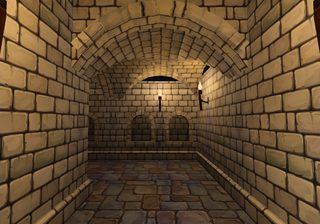
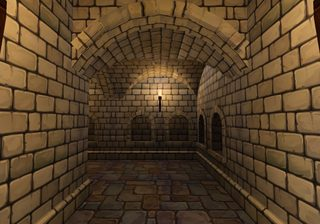
Godkjenningssiden: steinen i «Se i 3D», modulbildene på nytt og paletten for alle temaene
viewer.js bytter lagene per instans som spillet (steinbyttet), så
kloakken, gruva, borgen og kjernen vises i sin egen stein. Plastsømmene
lyser dempet fiolett (magic_seam_dim). Modulbildene er tatt på nytt for
alle temaene med det nye lyset, paletten i redigeringen har et bilde per
modul i alle temaene, og docs/nivaaredigering.md del 25 beskriver lyset og
mekanismebitene.

Claude-Session: https://claude.ai/code/session_01HjRNadLHQ1vF9573PymvAE

diff --git a/tools/qa/viewer.js b/tools/qa/viewer.js
@@ -185,8 +185,46 @@ export async function show(it, data, ui) {
     const names = Object.keys(lv.models);
     const scenes = await Promise.all(names.map(n => load(st, lv.models[n], layers, sides)));
     const byName = Object.fromEntries(names.map((n, i) => [n, scenes[i]]));
+    // Steinbyttet (`crypt::stone`): lagene biten er laget med (gulv, mur,
+    // hogd stein) byttes mot lagene instansen får (gulv, mur, hvelv, hogd
+    // stein); muren som vender ned i modellen blir hvelv, som i spillet.
+    const swapped = new Map();
+    const stoned = (src, inst) => {
+      const s = inst.stone;
+      if (!s) return src;
+      const key = inst.model + "|" + s.from.join(",") + "|" + s.to.join(",");
+      if (!swapped.has(key)) {
+        const o = src.clone(true);
+        o.traverse(m => {
+          if (!m.isMesh) return;
+          const mats = [].concat(m.material).map(x => {
+            const role = (x.userData && x.userData.fristad) || {};
+            let to = null;
+            if (role.layer === s.from[0]) to = s.to[0];
+            else if (role.layer === s.from[1]) to = s.to[1];
+            else if (role.layer === s.from[2]) to = s.to[3];
+            if (!to) return x;
+            if (to === s.to[1] && s.to[2] !== s.to[1] && m.geometry.attributes.normal) {
+              const n = m.geometry.attributes.normal;
+              let down = 0;
+              for (let k = 0; k < n.count; k++) if (n.getY(k) < -0.3) down++;
+              if (down > n.count / 2) to = s.to[2];
+            }
+            const t = layerTexture(st, layers, to);
+            if (!t) return x;
+            const c = x.clone();
+            c.map = t;
+            c.needsUpdate = true;
+            return c;
+          });
+          m.material = mats.length === 1 ? mats[0] : mats;
+        });
+        swapped.set(key, o);
+      }
+      return swapped.get(key);
+    };
     for (const inst of lv.instances) {
-      const src = byName[inst.model];
+      const src = byName[inst.model] && stoned(byName[inst.model], inst);
       if (!src) continue;
       const o = src.clone(true);
       o.position.set(inst.pos[0], inst.pos[1], inst.pos[2]);

diff --git a/tools/crypt/kit_mech.py b/tools/crypt/kit_mech.py
@@ -12,7 +12,7 @@ fra temaet og bakes og sjekkes på samme måte.
 | `grav_luke`, `grav_luke_topp` | celle under og over | flatt tak med bjelker og luke nede, gulv med luke oppe (`ladder`, `trapdoor`) |
 | `grav_kanal`, `grav_kanal_ende` | celle | gangen med en kanal midt i og gangbane på hver side (`water`) |
 | `grav_galleri` | sammensatt 3 × 3 | sal på 10 × 10 m med galleri 5 m oppe langs nordmuren, trapp langs vestmuren og rekkverk |
-| `grav_vegg_som` | halvkant | muren med fiolette sømmer (`magic_seam`), variant `som` av `grav/vegg` |
+| `grav_vegg_som` | halvkant | muren med fiolette sømmer (`magic_seam_dim`), variant `som` av `grav/vegg` |
 """
 
 import math
@@ -238,8 +238,8 @@ def kanal_walk(end=False):
 # --- Plastsømmene ------------------------------------------------------------------
 
 
-def seam(m, surf, u, v0, v1, seed, w=0.11):
-    """En søm som lyser fiolett (`magic_seam`) i fugene, i sikksakk opp
+def seam(m, surf, u, v0, v1, seed, w=0.06):
+    """En søm som lyser fiolett (`magic_seam_dim`, dempet så den ikke blir hvit på nært hold) i fugene, i sikksakk opp
     langs muren, litt ut fra flaten."""
     import random
 
@@ -253,7 +253,7 @@ def seam(m, surf, u, v0, v1, seed, w=0.11):
         L = math.hypot(ub - ua, vb - va)
         nu, nv = -(vb - va) / L * w / 2, (ub - ua) / L * w / 2
         quad = [(ua - nu, va - nv), (ub - nu, vb - nv), (ub + nu, vb + nv), (ua + nu, va + nv)]
-        m.poly([surf.point(a, b, 0.012) for a, b in quad], [(a, b) for a, b in quad], "magic_seam", facing=surf.normal(u))
+        m.poly([surf.point(a, b, 0.012) for a, b in quad], [(a, b) for a, b in quad], "magic_seam_dim", facing=surf.normal(u))
 
 
 def vegg_som(far=False):

diff --git a/tools/qa/review.py b/tools/qa/review.py
@@ -249,7 +249,7 @@ def modules_3d(root, items, levels, used):
         if not keep:
             continue
         cells = [c for c in gal["flat"]["cells"] if any(c["id"].startswith(m["id"] + "/") for m in keep)]
-        reach = 6.0 if any("rotunde" in c["bit"] or c["bit"].endswith("/hall") for c in cells) else 2.0
+        reach = 6.0 if any("rotunde" in c["bit"] or c["bit"].endswith(("/hall", "/galleri")) for c in cells) else 2.0
         xs = [c["at"][0] * 4.0 for c in cells]
         zs = [c["at"][2] * 4.0 for c in cells]
         lo, hi = (min(xs) - reach - 0.01, min(zs) - reach - 0.01), (max(xs) + reach + 0.01, max(zs) + reach + 0.01)
@@ -270,6 +270,11 @@ def modules_3d(root, items, levels, used):
                 glb_to_json(hits[0], os.path.join(root, "kit", f"{model}.json"))
                 urls[model] = f"glb/kit/{model}.json"
                 used |= glb_layers(hits[0])
+        # Steinbyttet per instans (`crypt::stone`): lagene temaet gir, så
+        # «Se i 3D» viser kloakken i tegl og borgen i kvader (viewer.js).
+        for i in inst:
+            if i.get("stone"):
+                used |= set(i["stone"]["to"])
         levels[f"modul_{name}"] = {"models": {m: u for m, u in urls.items() if any(i["model"] == m for i in inst)}, "instances": [i for i in inst if i["model"] in urls]}
         it["level"] = f"modul_{name}"
 

diff --git a/tools/crypt/kit_grav.py b/tools/crypt/kit_grav.py
@@ -165,6 +165,7 @@ MATS = {
     "magic_down": None,
     "magic_bonus": None,
     "magic_seam": None,  # sømmene som lyser fiolett i muren (nivå 9–10)
+    "magic_seam_dim": None,  # plastsømmene i kjernens mur (`kit_mech.vegg_som`), svakere
     "water": None,
 }
 # Fargene til de spesielle materialene (lineær RGB).
@@ -178,6 +179,7 @@ SPECIAL = {
     "magic_down": ((0.25, 0.45, 1.0), 0.3),
     "magic_bonus": ((1.0, 0.72, 0.25), 0.3),
     "magic_seam": ((0.7, 0.35, 1.0), 0.2),
+    "magic_seam_dim": ((0.22, 0.07, 0.38), 0.2),
     "water": ((0.02, 0.04, 0.05), 0.05),
 }
 

diff --git a/CLAUDE.md b/CLAUDE.md
@@ -54,7 +54,7 @@ Fristad er et spill i en nordisk kjøpstad rundt 1350. Under borgruinen ligger k
 - **Lyd og musikk** (`web/music.js`, `web/score.js`, `web/ambience.js`, `web/sounds.js`; eieren 16. oktober: «mye bedre og mer middelalderaktig»): musikken spilles med ekte instrumentprøver fra FluidR3_GM (`assets/music/<instrument>/<tone>.mp3`, hentet av `tools/music/fetch.sh`, MIT/CC BY 3.0 i `assets/music/CREDITS.md`): blokkfløyte, skalmeie, fele, lutt, harpe, psalter, munkekor, positiv, bordun (cello, kontrabass, sekkepipe), kirkeklokke, pauke og tromme. `score.js` (`createScore`, `load`, `cue`, `stop`) er prøvespilleren og partituret (notene som «D5/2», klang «D4+A4/4», kirketonearter, bordun, organum, hoketus), med filmens cuer (dawn, scriptorium, fall, burial, crypt, town, gate) og spillets: i byen fem stykker etter tur, et nytt hvert 90. sekund, og kjellerens mørke cue (`music.js`, samme grensesnitt som før: `set("town"|"cellar"|"silence")`, M av og på). **Sporene fra Suno** (eieren 18. oktober) ligger i `assets/music/game/` og spilles som filer i løkke foran partituret (`TRACKS`, `trackFor` i `music.js`): `town` om dagen og `town_night` om natta (hver står i for den andre om den mangler; `town` om natta dempes med lavpass), `crypt` i alle nivåene, `combat` når en fiende som har sett deg er innen `FIGHT_NEAR` (12 m) eller slår (`Event::Hud.fight` fra `Mobs::fight`: 1 fiende, 2 boss, 3 Rammeverket; `combat_boss` for bossene, ellers `combat`), tonet inn over `COMBAT_FADE` (1,5 s) og ut over `COMBAT_OUT` (1,2 s) `FIGHT_HOLD` (2 s) etter kampen (eieren: raskere ut); kampsporet starter et tilfeldig sted ved en frasegrense (`phraseStarts`: der lydstyrken stiger brått, regnet ut med `OfflineAudioContext` når sporet lastes; ellers annenhver takt), aldri samme sted to ganger på rad og ikke de siste `COMBAT_TAIL` (20 s), går i løkke, og fortsetter der det var om en ny kamp kommer innen `COMBAT_RESUME` (20 s). Trubaduren synger kvadet om Gorvek (`tavern.mp3`) bare for et krus mjød (eieren 18. oktober): E på ham åpner en liten Fristil-dialog med replikken og «Kjøp et krus mjød (1 token)» (`Event::Mead`, `MeadView`, `openMead`; av med «Har ikke råd» uten token, og av mens han synger, så ingen betaler to ganger), `Command::BuyMead` trekker tokenet med myntlyd, og `Event::Song(true)` spiller fila én gang fra start (`music.song`); når den er ferdig, sier nettlaget fra (`Command::SongOver`, reserven `SONG_SECS`), og han sitter stille (`sit`) og vil ha et krus til (`application/tavern.rs`, replikkene `cast::MEAD_*`, `trubaduren_synger_for_et_krus_mjod`). Sangen høres i alle etasjene (`Ambience.tavern`: 1 i skjenkestua, `TAVERN_UPPER`/`TAVERN_CELLAR` oppe og i kjelleren, under 0,5 og dempet ut til 22 m; `vertshuset_hores_i_alle_etasjene`), og byens spor tones ned inne i hele huset. Mangler et spor, spiller partituret; `tools/build-web.sh` skriver `music/game/tracks.json` med sporene som finnes, så `music.js` aldri ber om et som mangler.
 - **Lydeffektene** er ekte opptak fra frie spill (0 A.D., Flare, Minetest Game og Still North Medias middelaldervåpen; CC BY-SA 3.0, CC BY 3.0 og CC0), laget av `tools/sounds/build.py` (kloner lydmappene, mono mp3, kutter stillhet, normaliserer, krysstoner løkkene) til `assets/sounds/` med `sounds.json` (navn → filer, nivå, variasjon i tonehøyde, `rate`, og `synth` når den syntetiske lyden skal spilles i tillegg) og `CREDITS.md` (lenket fra startkortet). Økta sender `Event::Sound(Sound { name, at, gain })`, der `at` er stedet sett fra øyet (`Session::sound_at`; `sfx` er lyder i hodet). `web/sounds.js` velger en variant (aldri samme to ganger), varierer tonehøyde og styrke, sender lyder med sted gjennom en HRTF-panner, og legger etterklang etter rommet (lang i kjelleren, kort innendørs, nesten ingen ute; `Ambience.indoor` måles med stråler). Den syntetiske lyden er reserve til opptaket er lastet. Lydene: skritt etter underlaget (`Session::surface`: brostein og stein, grus og søle, jord, gress, tre på gulv og bro, snø, vann i kloakken; søle i regnvær, rustningen rasler i takt), hopp og landing, hugg, tungt hugg som lades (og klinger når ladningen er full; `Combat.cues`), treff etter materiale (tabellen er tre, Rammeverket jern), balansen som brister (`Strike.staggered`), blokk med tre- eller jernskjold, parade, stønn, død, hjerteslag ved lavt liv og pust når utholdenheten er tom, fiendene med sted (varsel før slaget, at de får øye på deg, tassing, spytt, slag i bakken, brøl med noe som knekker, og bossens tunge, knirkende skritt; `Outcome.sounds`), byfolkenes skritt, portgitteret, nøkkelen, låst port, slåen på snarveien, dørene, kista, tau og planker som knirker på brua over kløfta, fjerne lyder i kjelleren (rotter, dører, kjetting, noe som knurrer i et rom ved siden av; `Session.distant_t`), kirkeklokka når du bytter mellom dag og natt, virvelen og portalen som åpner seg (`warp`, `portal_open`, og løkka `loop_portal` nær den åpne portalen), mynter, avslag, smiing, boka, sekken, pause og klikk i dialogene. Løkkene (`Ambience`: regn, storm, vind, torget, fugler, ugle, smia, ild ved ildsteder og fakler, drypp og grottevind i kjelleren, vann i kloakken, lava, vinden fra kløfta) og byens lag i `web/ambience.js` (stemmer, kjerrer, kirkeklokka, sirisser; sauer og kuer fra opptak). Testene `lydene_finnes` (alle navn spillet bruker er i manifestet, med filer og kreditering) og `skrittene_folger_underlaget`.
 - **Åpningsfilmen** (manuset `docs/film/manus.md`, historien er kanon i `docs/kanon.md`; eieren 16. oktober: «en selvstendig introfilm … IKKE forsøk på å male over selve spillet»; 17. oktober: en ferdig klippet video i stedet for den malte three.js-filmen): rundt tre minutter, uten spillets grafikk. **Klippebordet** er `tools/film/timeline.py` (data) og `tools/film/cut.py` (ffmpeg): `SHOTS` er klippene i rekkefølge, hvert med tid, kilde (Veo-klippet `assets/film/veo/<navn>.mp4`, trimmet og saktet om det er for kort, ellers maleriet i `assets/film/shots/` eller `assets/film/intro/` med en langsom glidning), overgang inn, fargegradering (`GRADES`), rommene og lydene fra `assets/sounds/`, replikkene (`voice`: indeks i `assets/film/voice/lines.json`, stemmen er `fortelleren.mp3` fra ElevenLabs, William Dahl, klippet i replikker etter pausene) og titlene (`titles`: skrives bokstav for bokstav i takt med replikken). Tidene følger innspillingen: hvert klipp begynner like før sin første replikk. Musikken er Suno-sporene i `assets/music/film/` klippet i biter etter aktene (`SCORE`); mangler mappa, brukes det syntetiske partituret (`target/film/music.wav`). Fortelleren ligger i sitt eget spor over sengen, som dukkes under stemmen. `python3 tools/film/cut.py --fast` gir 960 × 540 til å se på, uten `--fast` 1080p til `target/film/intro.mp4`. Actions klipper ikke filmen (eieren 18. oktober): den ferdige fila legges på grenen `film` med `sh tools/film/publish.sh` (bare fila, skrevet over hver gang, så repoet ikke vokser), Actions henter den derfra, og `tools/build-web.sh` legger den i `dist/film/intro.mp4`. Klipp og publiser på nytt hver gang filmen endres. Eierens bilder til utklipp gjøres klare med `tools/film/cutout.py`, og stedfortrederbilder settes sammen av førsterundens malerier til de ekte kommer. Det som mangler (Veo-klipp for stillbildene og to malerier) står i `docs/prompter/film.md`. `web/film/player.js` spiller videoen i 16:9 med svarte felt, «Hopp over» (også Esc og mellomrom), og toner over i spillet ved sørporten (`main.js`, `filmReveal`); den spilles hver gang med «Klikk for å begynne» når byen er bygd (`?nofilm` hopper over). Testen `kanon_ingen_moderne_ord_i_verden` leser replikkene.
-- **Nivåredigeringen** (`docs/nivaaredigering.md`, fase 0, 1 og 2 gjort 19. oktober): **eieren bygger med moduler, ikke biter** (eieren 19. oktober: «masse små rare biter?»; del 21): ferdige rom, ganger, trapper og ferdige rom med innhold (`assets/levels/moduler/<tema>/<navn>.json`, `ModuleDef`, `KitDef.modules`; 18 for gravkjelleren fra `tools/crypt/modules_grav.py`) står i dokumentets `modules` (id, modul, `at`, `rot`, `mirror`, `room`, `overrides` per åpning) og utvides før kompileringen (`compose::modules::flatten`): åpning der to moduler møtes og begge har en åpning på kanten (dør, gangåpning, bue, eller port, falsk vegg og snarvei som blir innhold), mur ellers, bare den midterste der de møtes langs flere kanter; to moduler i samme celle er feil (`check::overlaps`). Prøvenivået er 14 moduler; `?nivaa=moduler`/`snapshot --level-doc moduler` viser alle side om side, `modul:grav/kapell` én; de ferdige rommene har innhold som `prop` (byggesettets pynt og møblene fra byen i `crypt::PROPS`: alteret og benkene i kapellet, sarkofagene i gravgangen, skrin og kister i skattkammeret; `size` er fotavtrykket i nettet) som aldri står foran en åpning; `tools/crypt/module_shots.py` lager bildene til godkjenningssiden (der modulene er kortene, `u_<tema>_<navn>`, og bitene i `assets/catalog/modules.json` dømmes gjennom dem) og kartet over prøvenivået (`snapshot --dump-doc`). Inni bygges nivåene av celler på 4 × 4 m i et nivådokument (`assets/levels/nivaa_<navn>.json`, `crypt::doc::LevelDoc`: celler med `at` (i, y, j) og midten i (4i, y, 4j), `rot` med klokka, `mirror`, rom, kantvalg, innhold med ankre `celle:`/`kant:` i cellens eget rom, `yaw` i grader, koblinger og lys), som kompilatoren i kjernen (`crypt/compose/`: `compile`, `Compiler` som bare regner cellene der noe i nabolaget på 5 × 5 er endret) gjør om til en vanlig `LevelFile` med bitene som `instances` (`Crypt::build` setter dem ut med `place_mounted`), kolliderne flettet (`solids.rs`), nettet rastret i ruter på 0,2 m (`nav.rs`), rommene (`rooms.rs`), merkene og lysene. Byggesettet er data (`crypt::kit::KitDef` fra manifestet `assets/models/crypt/kit/<tema>.json`, bitene i `assets/models/crypt/kit/<tema>/`, `build.rs`): pilotsettet for gravkjelleren i malt stil fra `python3.13 tools/crypt/kit_cells.py` (24 modeller; standardmålene i `kit_common.py` og `compose/grid.rs`; eksporten i `kit_bake.py`): celler (romfelt, gang, hjørne/T/kryss/blind, halvtrapp, halv etasje, nedgang, og rotunden 3 × 3 som sammensatt bit med `footprint`, delt i delbiter `<id>#k` av `KitDef::add` og `compose::expand`, med flatene `inner` innvendig), halvkanter (mur med sokkel og fakkelfeste, overmur over gang med buestav, dør med karm, port, falsk vegg, gjordbue, og overmur og rekkverk til fase 6), kvarthjørnene etter sidene cella har i hjørnet (`fits`: innvendig og «muren går videre» `grav_hjorne`, pilaster under en gjordbue, utvendig avfaset; `KitDef::corner`), søyla, fakkelen (`prop`) og den falske veggen `grav_falsk` (`leaf`, merket får den som `label`). Variantene (`variants`, egne kollidere når formen er annen, f.eks. de to rundbuede alkovene i `grav_vegg_b`, `K.alcove`: karm og terskel av hogd stein, innsida av samme stein) velges med nivåets frø og plassen (`compose::roll`) eller låses med `variant` i dokumentet; faklene settes i festene (`mounts` `fakkel`) etter rommets `mood.torches`, med et lys ved flammen. Hver modell har fjernversjonen som noden `far` (`gltf.rs` legger den i det grove nivået), okklusjonen bakt blant naboene og gjort nøytral mot skjøtene (`kit_bake.py`), og manifestet i `extras.kit` (`manifestet_er_likt_glb_filene`); `kit_cells.py --check` er tetthetssjekken per bit (stråler mot de lukkede flatene, stopper eksporten), og eksporten stopper også på strukket tekstur (`kit_grav.uv_stretch`: uv i meter innenfor `UV_SCALE` og `UV_ANISO`; enkeltsteinene i karmer og ribber skjæres til formen, `stone_uv`, og deles etter `STONE_MAX`; eieren 19. oktober om de gamle nisjene: «rare teksturer»). Flatene deles i de samme høydene og rutene som naboene (ingen T-kryss: de ga hull på én piksel; `grid_face` setter inn hjørnene der omrisset krysser en rutelinje). Gjordbuene, buestavene og ribbene er kilesteiner fra murbildet (`band(..., stones=)`, steinene i `kit_grav.STONE_PX`, målt i bildet som er der nå), og kuppelen har uv langs steinskiftene. Ruter i nettet som ikke er del av 2 × 2 fjernes (`nav::drop_slivers`). `tools/crypt/kit_shots.py` lager bildet av hver bit i prøvenivået til godkjenningssiden (og «Se i 3D» viser biten blant de andre, `snapshot --dump-level`). Kvarte dreininger er eksakte (`compose::transform`), og halvkantene og hjørnene har bakside, så skjøtene aldri viser tomrommet. Reglene står i `compose/check.rs` (`tight`, `overlaps`, `edges`). `Data.docs` (nivådokumenter merket «klar») erstatter de gamle nivåene i `Data::compose_levels`; ingen er klare ennå. `snapshot --level-doc test|brett [--level 1 --eye …] [--merge]` viser prøvenivået eller prøvebrettet (hver bit mot hver bit i alle dreininger, `compose::board`), og i nettleseren `?nivaa=test` (`&slaa` slår bitene sammen per 16 m, `&bench` måler i nivået). Testene i `src/level_doc_tests.rs`, og prøvenivået går gjennom de gamle (`provenivaaet_kan_gas_gjennom`, `ingen_usynlige_vegger_i_provenivaaet`, `fiendene_finner_fram_i_provenivaaet`, `lyset_folger_rommene_i_provenivaaet`, `provenivaaet_har_det_det_skal_og_taket_er_hoyt_nok`). Skissen av skjermbildet: `docs/nivaaredigering-skisse.html`. **Steinen** (eieren 19. oktober: «det må være mulig å skifte type tekstur på mur også»; del 22, `crypt::stone`): formen og steinen er skilt. Steinene står i `assets/levels/steiner.json` (navn → lag for `floor`, `wall`, `vault` og `trim`, og standardsteinen per tema i `themes`: grav gravmur, kloakk tegl, gruve berg, borg kvader, kjerne kjernestein), lest til `KitDef.stones`. Dokumentet velger med `stone` på nivået (og `theme`), rommet, modulen, cella og kanten (`DocEdge` uten `kind`), enten et steinnavn eller flatene hver for seg (`{"wall": "sewer_brick", "trim": "kvader"}`, lagnavn eller stein); det nærmeste vinner, flate for flate, og ukjent stein er feil (`stein`). Kompilatoren gir hver instans `stone` (lagene biten er laget med → lagene den får; halvkantene og hjørnene tar sin egen celles, så overgangen går midt i åpningen; den falske veggen murens via merket), `Crypt::build` gjør det til `model::Look`, og rendereren bytter laget per instans i vertexshaderen (`look` i `world.wgsl`, `InstanceData::with_look`, extra2.z/w): gulvlaget → gulv, den hogde steinen → `trim`, murlaget → mur, og murlaget som vender ned (`Look::VAULT_NY`) → hvelv; sammenslåingen (`--merge`) baker det samme inn. Samme modell med forskjellig stein er samme tegnekall. **Den hogde steinen** (søyler, ribber, gjordbuer, buestaver, karmer, kapitéler, konsoller, sokkel, terskler; materialene `dressed` og `rib` i `kit_grav.MATS`) har sitt eget lag i bitene, `crypt_dressed` (lag 63, lenke til bildet i `crypt_wall`; lagene er nå fulle), så berget og tømmeret får kvader i søylene og kjernen kjernestein (aldri tømmer eller plast, `den_hogde_steinen_er_egen_flate`). **Mekanismene og temaene som moduler** (del 24): `porthall`, `nokkelport`, `snarvei`, `fellegang` og `hvilested` i `modules_grav.py` med koblingene inni modulen, reglene for koblingene i `compose::check::links` (`src/mechanism_tests.rs`), og kloakken, gruva, borgen og kjernen med gravkjellerens former og egne ferdigrom fra `tools/crypt/modules_themes.py` (`assets/levels/moduler/<tema>/`, i galleriet `<tema>_<navn>`); vindebro, heis, stige og kanal venter på egne biter. **Bosshallen** (`grav/hall`, 10 × 10 m med hvelv til 10 m, modulen `bosshall` i alle temaene med arenaporten) og regelen `check::headroom` (fienden får takhøyde etter `Kind::stats().scale`); lyset følger høyst 64 rom per nivå (`check::rooms`), så modulbildene tas per tema (`moduler:<tema>`). `snapshot --level-doc steiner` (`nivaa_steiner.json`: rom og ganger i ti steiner med overganger); testene i `src/stone_tests.rs`.
+- **Nivåredigeringen** (`docs/nivaaredigering.md`, fase 0, 1 og 2 gjort 19. oktober): **eieren bygger med moduler, ikke biter** (eieren 19. oktober: «masse små rare biter?»; del 21): ferdige rom, ganger, trapper og ferdige rom med innhold (`assets/levels/moduler/<tema>/<navn>.json`, `ModuleDef`, `KitDef.modules`; 18 for gravkjelleren fra `tools/crypt/modules_grav.py`) står i dokumentets `modules` (id, modul, `at`, `rot`, `mirror`, `room`, `overrides` per åpning) og utvides før kompileringen (`compose::modules::flatten`): åpning der to moduler møtes og begge har en åpning på kanten (dør, gangåpning, bue, eller port, falsk vegg og snarvei som blir innhold), mur ellers, bare den midterste der de møtes langs flere kanter; to moduler i samme celle er feil (`check::overlaps`). Prøvenivået er 14 moduler; `?nivaa=moduler`/`snapshot --level-doc moduler` viser alle side om side, `modul:grav/kapell` én; de ferdige rommene har innhold som `prop` (byggesettets pynt og møblene fra byen i `crypt::PROPS`: alteret og benkene i kapellet, sarkofagene i gravgangen, skrin og kister i skattkammeret; `size` er fotavtrykket i nettet) som aldri står foran en åpning; `tools/crypt/module_shots.py` lager bildene til godkjenningssiden (der modulene er kortene, `u_<tema>_<navn>`, og bitene i `assets/catalog/modules.json` dømmes gjennom dem) og kartet over prøvenivået (`snapshot --dump-doc`). Inni bygges nivåene av celler på 4 × 4 m i et nivådokument (`assets/levels/nivaa_<navn>.json`, `crypt::doc::LevelDoc`: celler med `at` (i, y, j) og midten i (4i, y, 4j), `rot` med klokka, `mirror`, rom, kantvalg, innhold med ankre `celle:`/`kant:` i cellens eget rom, `yaw` i grader, koblinger og lys), som kompilatoren i kjernen (`crypt/compose/`: `compile`, `Compiler` som bare regner cellene der noe i nabolaget på 5 × 5 er endret) gjør om til en vanlig `LevelFile` med bitene som `instances` (`Crypt::build` setter dem ut med `place_mounted`), kolliderne flettet (`solids.rs`), nettet rastret i ruter på 0,2 m (`nav.rs`), rommene (`rooms.rs`), merkene og lysene. Byggesettet er data (`crypt::kit::KitDef` fra manifestet `assets/models/crypt/kit/<tema>.json`, bitene i `assets/models/crypt/kit/<tema>/`, `build.rs`): pilotsettet for gravkjelleren i malt stil fra `python3.13 tools/crypt/kit_cells.py` (24 modeller; standardmålene i `kit_common.py` og `compose/grid.rs`; eksporten i `kit_bake.py`): celler (romfelt, gang, hjørne/T/kryss/blind, halvtrapp, halv etasje, nedgang, og rotunden 3 × 3 som sammensatt bit med `footprint`, delt i delbiter `<id>#k` av `KitDef::add` og `compose::expand`, med flatene `inner` innvendig), halvkanter (mur med sokkel og fakkelfeste, overmur over gang med buestav, dør med karm, port, falsk vegg, gjordbue, og overmur og rekkverk til fase 6), kvarthjørnene etter sidene cella har i hjørnet (`fits`: innvendig og «muren går videre» `grav_hjorne`, pilaster under en gjordbue, utvendig avfaset; `KitDef::corner`), søyla, fakkelen (`prop`) og den falske veggen `grav_falsk` (`leaf`, merket får den som `label`). Variantene (`variants`, egne kollidere når formen er annen, f.eks. de to rundbuede alkovene i `grav_vegg_b`, `K.alcove`: karm og terskel av hogd stein, innsida av samme stein) velges med nivåets frø og plassen (`compose::roll`) eller låses med `variant` i dokumentet; faklene settes i festene (`mounts` `fakkel`) etter rommets `mood.torches`, med et lys ved flammen. Hver modell har fjernversjonen som noden `far` (`gltf.rs` legger den i det grove nivået), okklusjonen bakt blant naboene og gjort nøytral mot skjøtene (`kit_bake.py`), og manifestet i `extras.kit` (`manifestet_er_likt_glb_filene`); `kit_cells.py --check` er tetthetssjekken per bit (stråler mot de lukkede flatene, stopper eksporten), og eksporten stopper også på strukket tekstur (`kit_grav.uv_stretch`: uv i meter innenfor `UV_SCALE` og `UV_ANISO`; enkeltsteinene i karmer og ribber skjæres til formen, `stone_uv`, og deles etter `STONE_MAX`; eieren 19. oktober om de gamle nisjene: «rare teksturer»). Flatene deles i de samme høydene og rutene som naboene (ingen T-kryss: de ga hull på én piksel; `grid_face` setter inn hjørnene der omrisset krysser en rutelinje). Gjordbuene, buestavene og ribbene er kilesteiner fra murbildet (`band(..., stones=)`, steinene i `kit_grav.STONE_PX`, målt i bildet som er der nå), og kuppelen har uv langs steinskiftene. Ruter i nettet som ikke er del av 2 × 2 fjernes (`nav::drop_slivers`). `tools/crypt/kit_shots.py` lager bildet av hver bit i prøvenivået til godkjenningssiden (og «Se i 3D» viser biten blant de andre, `snapshot --dump-level`). Kvarte dreininger er eksakte (`compose::transform`), og halvkantene og hjørnene har bakside, så skjøtene aldri viser tomrommet. Reglene står i `compose/check.rs` (`tight`, `overlaps`, `edges`). `Data.docs` (nivådokumenter merket «klar») erstatter de gamle nivåene i `Data::compose_levels`; ingen er klare ennå. `snapshot --level-doc test|brett [--level 1 --eye …] [--merge]` viser prøvenivået eller prøvebrettet (hver bit mot hver bit i alle dreininger, `compose::board`), og i nettleseren `?nivaa=test` (`&slaa` slår bitene sammen per 16 m, `&bench` måler i nivået). Testene i `src/level_doc_tests.rs`, og prøvenivået går gjennom de gamle (`provenivaaet_kan_gas_gjennom`, `ingen_usynlige_vegger_i_provenivaaet`, `fiendene_finner_fram_i_provenivaaet`, `lyset_folger_rommene_i_provenivaaet`, `provenivaaet_har_det_det_skal_og_taket_er_hoyt_nok`). Skissen av skjermbildet: `docs/nivaaredigering-skisse.html`. **Steinen** (eieren 19. oktober: «det må være mulig å skifte type tekstur på mur også»; del 22, `crypt::stone`): formen og steinen er skilt. Steinene står i `assets/levels/steiner.json` (navn → lag for `floor`, `wall`, `vault` og `trim`, og standardsteinen per tema i `themes`: grav gravmur, kloakk tegl, gruve berg, borg kvader, kjerne kjernestein), lest til `KitDef.stones`. Dokumentet velger med `stone` på nivået (og `theme`), rommet, modulen, cella og kanten (`DocEdge` uten `kind`), enten et steinnavn eller flatene hver for seg (`{"wall": "sewer_brick", "trim": "kvader"}`, lagnavn eller stein); det nærmeste vinner, flate for flate, og ukjent stein er feil (`stein`). Kompilatoren gir hver instans `stone` (lagene biten er laget med → lagene den får; halvkantene og hjørnene tar sin egen celles, så overgangen går midt i åpningen; den falske veggen murens via merket), `Crypt::build` gjør det til `model::Look`, og rendereren bytter laget per instans i vertexshaderen (`look` i `world.wgsl`, `InstanceData::with_look`, extra2.z/w): gulvlaget → gulv, den hogde steinen → `trim`, murlaget → mur, og murlaget som vender ned (`Look::VAULT_NY`) → hvelv; sammenslåingen (`--merge`) baker det samme inn. Samme modell med forskjellig stein er samme tegnekall. **Den hogde steinen** (søyler, ribber, gjordbuer, buestaver, karmer, kapitéler, konsoller, sokkel, terskler; materialene `dressed` og `rib` i `kit_grav.MATS`) har sitt eget lag i bitene, `crypt_dressed` (lag 63, lenke til bildet i `crypt_wall`; lagene er nå fulle), så berget og tømmeret får kvader i søylene og kjernen kjernestein (aldri tømmer eller plast, `den_hogde_steinen_er_egen_flate`). **Mekanismene og temaene som moduler** (del 24): `porthall`, `nokkelport`, `snarvei`, `fellegang` og `hvilested` i `modules_grav.py` med koblingene inni modulen, reglene for koblingene i `compose::check::links` (`src/mechanism_tests.rs`), og kloakken, gruva, borgen og kjernen med gravkjellerens former og egne ferdigrom fra `tools/crypt/modules_themes.py` (`assets/levels/moduler/<tema>/`, i galleriet `<tema>_<navn>`); vindebro, heis, stige, kanal, galleri og plastsømmer har egne biter (del 25). **Bosshallen** (`grav/hall`, 10 × 10 m med hvelv til 10 m, modulen `bosshall` i alle temaene med arenaporten) og regelen `check::headroom` (fienden får takhøyde etter `Kind::stats().scale`); lyset følger høyst 64 rom per nivå (`check::rooms`), så modulbildene tas per tema (`moduler:<tema>`). `snapshot --level-doc steiner` (`nivaa_steiner.json`: rom og ganger i ti steiner med overganger); testene i `src/stone_tests.rs`. **Lyset og mekanismebitene** (del 25, 20. oktober): rommet når opp i hvelvet i lyset (`RoomDef.rise`; hvelvene var svarte), mørk stein gir sterkere fakler og lys (`light` i `steiner.json`), hjulkrona er en åpen felg i kjetting, og trappa ned og døra opp tar temaets stein. `tools/crypt/kit_mech.py` gir kløfta (`grav/kloft`, vindebroas dekk gangbart bak bryteren, `nav::bridges`), sjakta (`grav/sjakt`, `sjakt_topp`), luka (`grav/luke`, `luke_topp`), kanalen (`grav/kanal`, `kanal_ende`), galleriet i to etasjer (`grav/galleri`, `FootCell.floors`) og muren med plastsømmer (`grav/vegg` varianten `som`, valgt av steinen med `wall_variant`); modulene `vindebro`, `heis`, `stige` og `galleri` i alle temaene og `kloakk/kanal`; innholdet har `top`, `bottom` og `levels`; reglene i `check::mechanisms`; «Se i 3D» bytter steinen per instans (`viewer.js`).
 - **Siden `?nivaa`** (fase 3, 19. oktober; `docs/nivaaredigering.md` del 23): `?nivaa` uten navn sender til `web/nivaa.html` (`web/nivaa.js`, kartet i `web/nivaa-plan.js`; `&fil=<navn>` åpner `nivaa_<navn>.json`). Kartet ovenfra (Canvas 2D, etasje for etasje, hjulet zoomer, høyre knapp drar) og motoren i 3D side om side (Tab eller knappene: bare kartet, delt, bare 3D). Paletten har modulene med bildet (`assets/levels/moduler/<tema>/<navn>.jpg`, fra `module_shots.py`-skuddene, kopiert til `dist/moduler/` av `build-web.sh`), innholdet og fiendeslagene (`Kind::ALL`); klikk eller dra ut, R/Shift+R dreier, M speiler, Delete sletter, dra flytter (innhold med fritt anker i modulens ruter følger med), ramme og Shift velger flere, Ctrl+Z/Y, Ctrl+C/V/D, K kobler (spak → port, elite → port med nøkkel, hint → falsk vegg), klikk på en pil gir slaget for åpningen, dobbeltklikk går inn der i 3D, og klikk i 3D velger. Egenskapspanelet: modulen (navn, felles rom, fakler, stein), åpningen, innholdet (fiendeslag, antall, patrulje med klikk, bakhold, kistens komponent, lappens tittel og tekst, bonus, felle, hint) og nivået (navn, nummer 1–10, tema, stein). Kjernen er `domain/edit/level/` (`LevelEditor` over `LevelDoc`: `LevelOp` som json, `Change` med angre, `rules::check` med nåbarheten fra start over nettet, koblingene, tom lapp og takhøyden, i tillegg til kompilatorens og `check::{overlaps, tight}`; `map::LevelMap` er kartet, `map::palette` paletten; `Report.edges` er åpningene etter sammenføyningen). Økta (`application/level_editing.rs`): `Command::Level(LevelCommand)`, nivået bygges på et kladdeark (`crypt::build`) etter hver endring og tegnes som bevegelige instanser med plass satt av (`assembly::prepare_level_editor`, `level_reserves`), de faste i krypten skjules, arbeidslys (L) eller spillets lys; `snapshot --level-edit NAVN [--level-op JSON] [--game-light]` viser det. «Spill fra start» (P, Shift+P der kameraet står) bygger verden på nytt med dokumentet som nivå 1 (`Engine::level_play`, `src/adapters/web_level.rs`), du kan ikke dø (`Session.immortal`), og Esc går tilbake. Utkastet huskes i nettleseren (`fristad.nivaa.utkast:<sti>`), Ctrl+S lagrer på grenen `redigering` (`web/github.js`) eller laster ned en zip uten nøkkel, og «Merk klart» krever at reglene er grønne. Fila skrives i fast form (`data::level_doc_json`). Testene i `src/level_editor_tests.rs`, og i nettleseren `tools/nivaa-test.mjs dist-web webgl UT`.
 - **Gjennomspillingen** (`gjennomspilling` i `src/tests.rs`, `#[ignore]`): en bot går gjennom alle nivåene med ekte fysikk (kister, spaker, eliten, nøkkelen, portgitteret, trappa ned, Rammeverket); `kryptnivaaene_kan_gas_gjennom` er den korte utgaven som alltid kjører. `cargo test --release gjennomspilling -- --ignored --nocapture`.
 

diff --git a/docs/nivaaredigering.md b/docs/nivaaredigering.md
@@ -814,4 +814,16 @@ Den gamle krypten kastes (plan del 15), så mekanismene og temaene kommer som mo
 - **De fire andre temaene** (`tools/crypt/modules_themes.py`, `assets/levels/moduler/<tema>/`): kloakken, gruva, borgen og kjernen får de samme formene som gravkjelleren (rom 1 × 1 til 3 × 3, gangene, trappene, nedgangen og rotunden) av de samme bitene; temaet gir steinen (`steiner.json`). Ferdigrom: kloakken `slusekammer` (vann til knærne, spaken åpner slusa, `water`) og `smuglerlager`; gruva `gruvegang` (skinner, malmvogn, lamper), `gruvesal` (tømmerstøtter, skinner, vogn) og `krystallgrotte`; borgen `tronsal` (trone, statuer, rustninger, faner), `vaktstue` og `riddergang`; kjernen `plastsal` (steinen `plast`, fiolette krystaller) og `kjernerotunde`. I galleriet heter de `<tema>_<navn>` (`modules::gallery`), med en nabo fra samme tema.
 - **Bosshallen** (bossene er 4–5 m høye; Navbaren og Dropdownen 5 m): biten `grav/hall` (`kit_cells.hall`, sammensatt 3 × 3 som rotunden: et rom på 10 × 10 m, murene til vederlaget i 7 m, krysshvelv med ribber til 10 m, søyler i hjørnene under ribbene, gang ut midt på hver side) og modulen `bosshall` i alle temaene: hallen med bossen (gravkjelleren Modalen, kloakken Tabellen, gruva Select, borgen Navbaren, kjernen Rammeverket), ei hjulkrone, og et forrom med arenaporten som slår igjen bak deg til bossen faller (`gate` med `arena`). Regelen `check::headroom`: hver fiende står i et rom med takhøyde minst `mob_height` (2 m ganger skalaen i `Kind::stats()` pluss 0,5 m), så en boss i et vanlig rom (4 m) er en feil.
 - **Lyset følger høyst 64 rom per nivå** (`Crypt::light_mask`): rom nummer 64 og over fikk ingen lys. `check::rooms` gjør flere rom til en feil, og bildene tas tema for tema (`snapshot --level-doc moduler:<tema>`, `module_shots.py`).
-- **Det som gjenstår** (trenger egne biter i Blender og felter i dokumentet): vindebro over en kløft (en celle uten gulv og `top` på broa), heis i en sjakt (sjaktcella og `bottom`), stige og fallem (to etasjer over hverandre, `top`), kloakkens kanal med gangbane, gruvas heissjakt, borgens gallerier (rekkverket finnes, fase 6) og kjernens plastsømmer i muren (`magic_seam` på biter). Kjernens fiolette sømmer står foreløpig som krystaller og lys. Ingen nye teksturlag: alt bruker lagene som finnes.
+- **Det som gjensto** (vindebro, heis, stige og fallem, kanal, galleri, plastsømmer) er gjort i del 25.
+
+## 25. Lyset, mekanismebitene og steinen i 3D (20. oktober)
+
+- **Lyset i modulene:** hvelvene i bosshallen, rotunden og salene var svarte fordi rommene sluttet ved den frie høyden (`clear`), så hvelvet over var utenfor alle rom og bare lykta lyste der. Rommet når nå opp til toppen av bitene i lyset (`RoomDef.rise`, `Room.rise`, `view.rs`), men aldri opp i et rom over. Rom med mørk stein får sterkere fakler og lys (`light` i `steiner.json`, lag → faktor: tegl 2,2, berg 2,1, tømmer 1,9, kvader 2,0, kjernestein 1,5; albedoen er målt, gravmuren 0,33 og teglen 0,06), så steinen beholder fargen og rommet er lesbart. Bosshallen har fire lys fra hjørnene opp i hvelvkappene. Hjulkrona (`kit_chandelier`, `kit_castle.py`) er en åpen eikefelg med seks eiker, jernbånd og tolv lys, i kjetting fra kroken (den gamle var en flat, brun skive). Testen `hvelvene_er_i_lyset_og_mork_stein_far_sterkere_lys`.
+- **Trappa ned og døra opp** tar temaets stein: karmen og trinnene i `kit_down`/`kit_up` er den hogde steinen (`crypt_dressed`), og merkene `up`/`down` får steinbyttet fra cella de står i (`trappa_ned_tar_temaets_stein`).
+- **Mekanismebitene** (`tools/crypt/kit_mech.py`, tatt inn i `kit_cells.build`): `grav/kloft` (gulvet er en kløft 6 m ned mellom murene i øst og vest), `grav/sjakt` og `grav/sjakt_topp` (heissjakta: gulv nede, hull mellom murflatene 6 m oppe, murene over buene og taket mellom murflaten og cellekanten), `grav/luke` og `grav/luke_topp` (flatt tak med bjelker og luke på 1,6 × 1,6 m, gulv med luke oppe), `grav/kanal` og `grav/kanal_ende` (kloakkgangen med kanal 1,4 m bred og 1,3 m dyp og gangbane på hver side), `grav/galleri` (sammensatt 3 × 3: sal på 10 × 10 m med galleri 5 m oppe langs nordmuren, trapp langs vestmuren, brystning, hvelv til 11 m, gangen ut i nord fra galleriet) og muren med plastsømmer (`grav/vegg` varianten `som`, `magic_seam_dim`). Etasjene står 6 m fra hverandre (gulvskiva i 5,5–6 m), to celler i samme rute.
+- **Dokumentet:** innholdet har `top`, `bottom` og `levels` (i ankerets rom), og en delcelle i en sammensatt bit kan ha sitt eget gulv ved kantene (`FootCell.floors`: galleriets gang ut i nord står 5 m oppe). Vindebroas dekk er gangbart bak broas bryter (`nav::bridges`), stengt til spaken senker den. Steinen kan be om en murvariant (`wall_variant` i `steiner.json`): kjernesteinen og plasten gir plastsømmer på annenhver mur, og varianten med vekt 0 velges aldri av frøet.
+- **Modulene** (`modules_grav.py`, i alle temaene fra `modules_themes.py`): `vindebro` (spaken på sørsida senker broa over kløfta), `heis` (spaken nede løsner bremsen, vinsjen står i rommet oppe), `stige` (stigen opp til fallemmen, som åpnes nedenfra), `galleri`, og i kloakken `kanal` (slusa tømmer kanalen).
+- **Reglene** (`compose::check::mechanisms`, `src/mechanism_tests.rs`): en kløft uten vindebro er en advarsel, en vindebro som ikke står over en kløft, en heis som ikke står i en sjakt (med bunnen i sjakta under), en fallem som ikke ligger over en luke og en stige som ikke når opp til luka er feil, og en kanal uten vann er en advarsel. Testene `mekanismene_har_bitene_sine`, `kjernen_har_plastsommer_i_muren`, `mekanismene_uten_bitene_sine_er_feil`.
+- **«Se i 3D»** på godkjenningssiden bytter steinen per instans som spillet (`viewer.js`: lagene biten er laget med → lagene instansen får, muren som vender ned blir hvelv; `review.py` tar med lagene), så kloakken er tegl og borgen kvader.
+- **Bildene:** `module_shots.py` har egne kameraer for vindebroa, kanalen, heisen, stigen (nede og oppe) og galleriet, og paletten (`assets/levels/moduler/<tema>/<navn>.jpg`) er laget av det første bildet for alle temaene.
+- **Gjenstår:** heisen og stigen er ikke i navigasjonsnettet (fiendene bruker dem ikke, og redigeringens regel om at alt kan nås fra start kjenner dem ikke ennå); galleriet har ingen søyler og sokkel langs nord- og vestmuren; flere temaspesifikke biter (gruvas tømmerforede sjakt, borgens overmur med skyteskår).

diff --git a/docs/plan.md b/docs/plan.md
@@ -279,6 +279,7 @@ Eieren synes nivåene er for kjedelige og generiske, og vil bygge dem selv i en 
 - **19. oktober:** fase 0 og 1 er gjort (kompilatoren i kjernen, det grå pilotsettet, prøvenivået og prøvebrettet, testene og målingen); status og tall i `docs/nivaaredigering.md` del 19. Fase 2 er gjort samme dag (pilotsettet for gravkjelleren i malt stil, 24 modeller, med okklusjon bakt i sammenheng, fjernversjon, fester, varianter, manifestet i glb og tetthetssjekken); kortene til godkjenningssiden er laget, og eierens dom gjenstår før fase 3 (del 20). Samme dag, etter eierens innvending mot de løse bitene: modulene (18 for gravkjelleren), prøvenivået bygd om av moduler, og godkjenningssiden viser modulene (del 21). Fase 3 (siden `?nivaa`) bygges med en palett av moduler.
 - **Godkjenningssiden uten løse deler (19. oktober):** «Det er 394 deler til godkjenning fortsatt. De fleste løse.» Bitene i de gamle nivåene 1–10 utgår (de ti nivåene bygges på nytt av moduler) og står sammenfoldet nederst med dommene som er gitt; byggesettets mekanismer og pynt dømmes satt sammen på seks kort (porter og spaker, feller, hvilested og lapper, opp og ned, vindebro/vann/heis, pynt) fra prøvenivået `nivaa_mekanismer`. Krypten har nå 18 moduler og 6 kort som venter.
 - **Fase 3, siden `?nivaa` (19. oktober):** kartet ovenfra med modulpaletten og 3D fra motoren side om side (eller hver for seg), åpningene, innholdet med koblingene, reglene med «gå til», angre, utkast og lagring på grenen `redigering`, og prøveturen der du ikke kan dø; status og det som gjenstår i `docs/nivaaredigering.md` del 23.
+- **Lyset og mekanismene (20. oktober):** hvelvene er i lyset, mørk stein får sterkere fakler, og vindebro, heis, stige og fallem, kanal, galleri og plastsømmer er moduler med egne biter og regler; trappa ned tar temaets stein, og «Se i 3D» viser steinen (`docs/nivaaredigering.md` del 25).
 
 ## Kritiske filer
 - Nye: `tools/qa/` (raster, glb, porter, board, golden, vurderer-oppsett), `tools/lib/`, `assets/specs.json`, `assets/approvals.json`, `docs/kvalitet/{stilguide,rubrikker,laerdom,ytelse}.md`, `web/film/`, crates under `crates/` (domain, ports, app, adapters).
